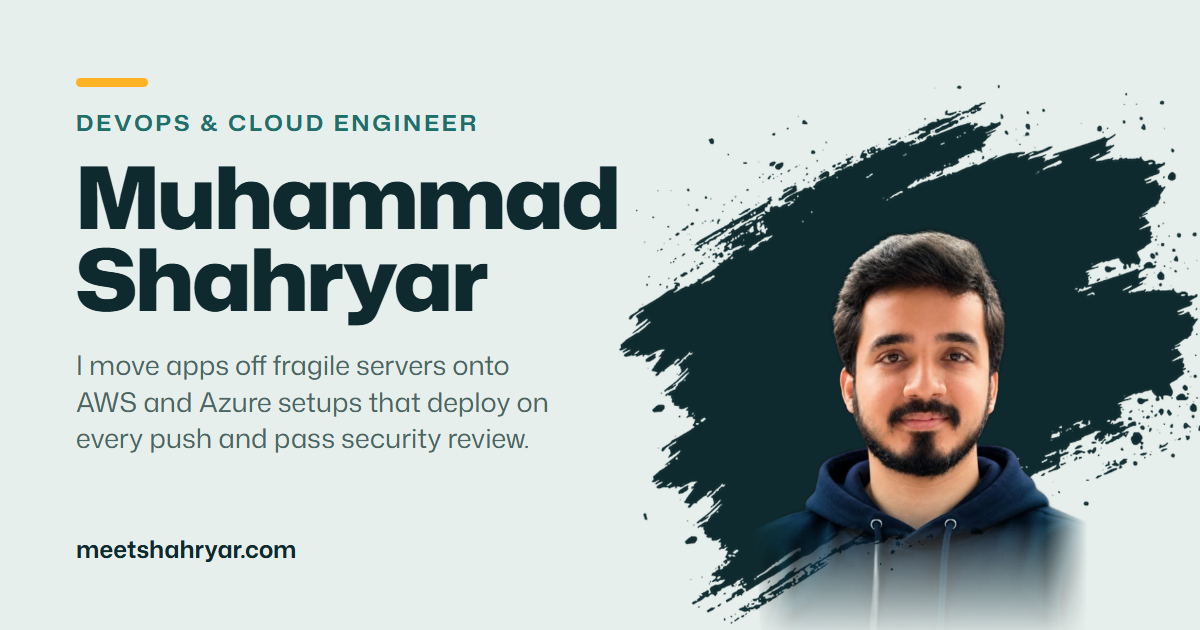
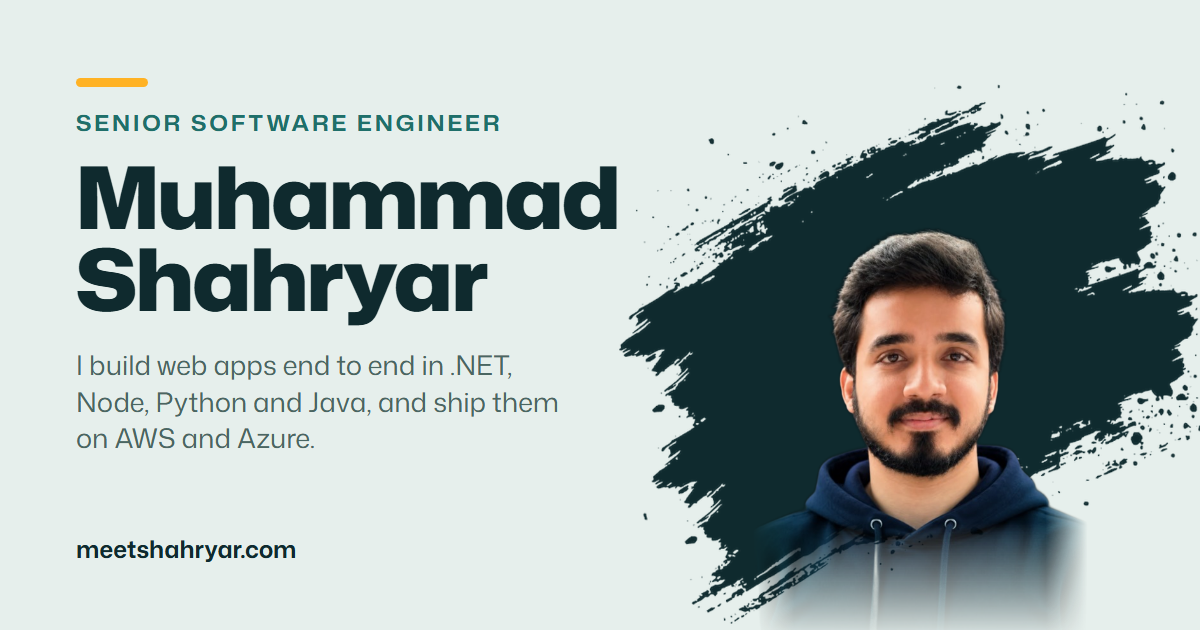
feat: update various project details for clarity, consistency, and accuracy

Changed region(s): [[0.0617, 0.5429, 0.4625, 0.7238], [0.0617, 0.181, 0.4317, 0.2111]]

diff --git a/src/lib/llms.ts b/src/lib/llms.ts
@@ -7,15 +7,15 @@ import { getCollection } from 'astro:content';
 import { getSite } from '@/lib/site';
 import { CATEGORY_IDS, categoryLabel } from '@/lib/categories';
 import { clean, hasTodo, isEmail, isHttpUrl } from '@/lib/todo';
+import { formatMonth } from '@/lib/format';
 
 const filled = <T>(items: T[]) => items.filter((v) => !hasTodo(v));
 const byOrder = <T extends { data: { order: number } }>(a: T, b: T) => a.data.order - b.data.order;
-/** "2025-09" → "Sep 2025"; placeholders → "". */
+/** "2025-09" → "Sep 2025" (same format as the page); placeholders → "". */
 const monthYear = (ym: string) => {
   if (ym === 'present') return 'present';
   if (hasTodo(ym)) return '';
-  const date = new Date(`${ym}-01T00:00:00Z`);
-  return date.toLocaleDateString('en-GB', { month: 'short', year: 'numeric', timeZone: 'UTC' });
+  return formatMonth(ym);
 };
 
 export async function buildLlmsTxt(siteUrl: URL, full: boolean): Promise<string> {
@@ -39,8 +39,11 @@ export async function buildLlmsTxt(siteUrl: URL, full: boolean): Promise<string>
   line(`# ${name}`);
   line();
   line(
-    `> ${name} is a ${site.title} based in ${site.location.city}, ${site.location.country} (${site.utcOffset}). ${site.valueLineLong}`,
+    `> ${name} is a ${site.title} based in ${site.location.city}, ${site.location.country} (${site.utcOffset}).`,
   );
+  line();
+  // valueLineLong is written in the first person, so it's quoted rather than run on.
+  line(`Summary, quoted from the site: "${site.valueLineLong}"`);
   line();
   line(`Currently at ${site.employer}. Has worked with clients in the ${site.regions}.`);
   if (!hasTodo(site.availability)) line(`Availability: ${site.availability}.`);

diff --git a/src/pages/site.webmanifest.ts b/src/pages/site.webmanifest.ts
@@ -8,7 +8,7 @@ export const GET: APIRoute = async () => {
   const name = [site.firstName, clean(site.surname)].filter(Boolean).join(' ');
   const manifest = {
     name: `${name}, ${site.title}`,
-    short_name: site.firstName,
+    short_name: clean(site.surname) || site.firstName,
     description: site.valueLine,
     start_url: '/',
     display: 'browser',

diff --git a/src/lib/photo.ts b/src/lib/photo.ts
@@ -28,4 +28,4 @@ const heroDarkFiles = import.meta.glob<{ default: ImageMetadata }>(
 );
 export const heroPhotoOnDark: ImageMetadata | undefined = Object.values(heroDarkFiles)[0]?.default;
 
-export const PHOTO_ALT = 'Shahryar, Senior Full-Stack Engineer';
+export const PHOTO_ALT = 'Muhammad Shahryar';
